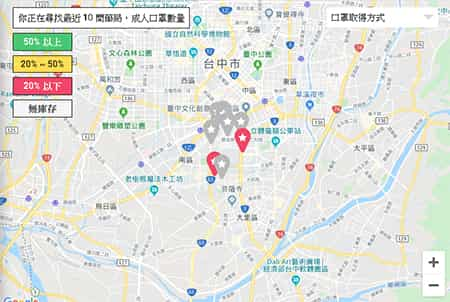
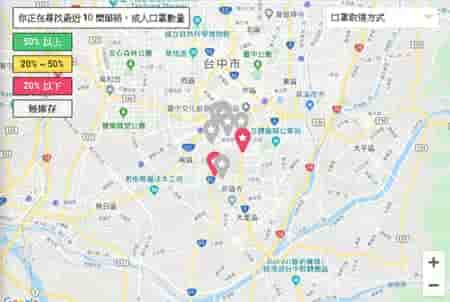
* webp

diff --git a/index.html b/index.html
@@ -67,7 +67,11 @@
             <h5 class="card-header bg-success text-white ">
               <a href="https://mask.goodideas-studio.com/"  style="color:white;text-decoration:none;">即時口罩地圖🔗</a></h5>
             <div class="card-body">
-              <a href="https://mask.goodideas-studio.com/"  ><img style="width: 65%; border:1.2px #9464E8 dashed; padding: 6px;" src="img/mask-goodideas-studio.jpg" alt=""></a>
+              <a href="https://mask.goodideas-studio.com/"><picture>
+                 <source srcset="img/mask-goodideas-studio.webp" type="image/webp">
+                 <source srcset="img/mask-goodideas-studio.jpg" type="image/jpeg">
+                 <img style="width: 65%; border:1.2px #9464E8 dashed; padding: 6px;" src="img/mask-goodideas-studio.jpg" alt="">
+              </picture></a>
             </div>
             <p class="card-text">請點擊圖片或標題連結至網頁</p>
             <div class="card-footer bg-success text-white">
@@ -79,7 +83,11 @@
               <a href="https://kiang.github.io/pharmacies/"  style="color:white;text-decoration:none;">藥局口罩採購地圖🔗</a>
             </h5>
             <div class="card-body">
-              <a href="https://kiang.github.io/pharmacies/" ><img style="width: 65%; border:1.2px #9464E8 dashed; padding: 6px;" src="img/pharmacies.jpg" alt=""></a>
+              <a href="https://kiang.github.io/pharmacies/" ><picture>
+                 <source srcset="img/pharmacies.webp" type="image/webp">
+                 <source srcset="img/pharmacies.jpg" type="image/jpeg">
+                 <img style="width: 65%; border:1.2px #9464E8 dashed; padding: 6px;" src="img/pharmacies.jpg" alt="">
+              </picture></a>
             </div>
             <p class="card-text">請點擊圖片或標題連結至網頁</p>
             <div class="card-footer bg-success text-white">
@@ -90,7 +98,11 @@
             <h5 class="card-header bg-success text-white ">
               <a href="https://masks.sunfarplus.com.tw/"  style="color:white;text-decoration:none;">找口罩 Mask Finder🔗</a></h5>
             <div class="card-body">
-              <a href="https://masks.sunfarplus.com.tw/"  ><img style="width: 65%; border:1.2px #9464E8 dashed; padding: 6px;" src="img/masks-sunfarplus.jpg" alt=""></a>
+              <a href="https://masks.sunfarplus.com.tw/"  ><picture>
+                <source srcset="img/masks-sunfarplus.webp" type="image/webp">
+                <source srcset="img/masks-sunfarplus.jpg" type="image/jpeg">
+                <img style="width: 65%; border:1.2px #9464E8 dashed; padding: 6px;" src="img/masks-sunfarplus.jpg" alt="">
+              </picture></a>
             </div>
             <p class="card-text">請點擊圖片或標題連結至網頁</p>
             <div class="card-footer bg-success text-white">
@@ -101,7 +113,11 @@
             <h5 class="card-header bg-success text-white ">
               <a href="https://mowd.tw/mask/"  style="color:white;text-decoration:none;">口罩熱度圖🔗</a></h5>
             <div class="card-body">
-              <a href="https://mowd.tw/mask/"  ><img style="width: 65%; border:1.2px #9464E8 dashed; padding: 6px;" src="img/mask-heatmap.jpg" alt=""></a>
+              <a href="https://mowd.tw/mask/"  ><picture>
+                <source srcset="img/mask-heatmap.webp" type="image/webp">
+                <source srcset="img/mask-heatmap.jpg" type="image/jpeg">
+                <img style="width: 65%; border:1.2px #9464E8 dashed; padding: 6px;" src="img/mask-heatmap.jpg" alt="">
+              </picture></a>
             </div>
             <p class="card-text">請點擊圖片或標題連結至網頁</p>
             <div class="card-footer bg-success text-white">
